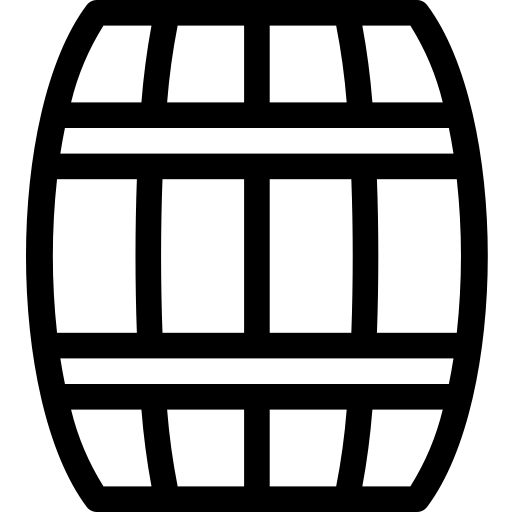
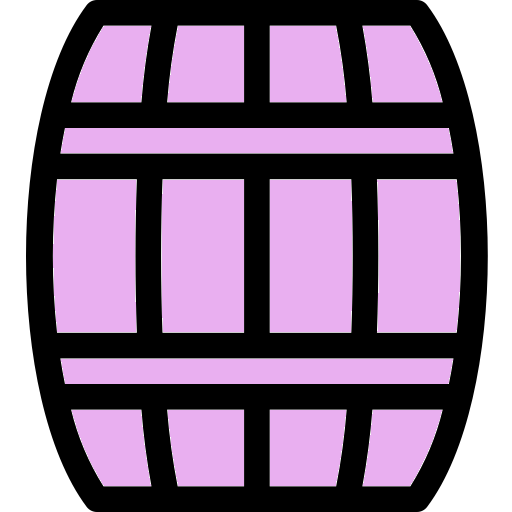
Fix startup texture loading and improve barrel contrast

diff --git a/src/addon.cpp b/src/addon.cpp
@@ -44,6 +44,7 @@ namespace
     AddonDefinition_t AddonDef{};
     Texture_t* BarrelTexture = nullptr;
     Texture_t* BarrelFilledTexture = nullptr;
+    float TextureRetryTimer = 0.0f;
 
     constexpr const char* BarrelTextureId = "PactSupply.Barrel";
     constexpr const char* BarrelFilledTextureId = "PactSupply.BarrelFilled";
@@ -133,7 +134,7 @@ namespace
 
         file << ButtonPosition.x << ' ' << ButtonPosition.y << '\n';
     }
-    void LoadTextures()
+    void LoadTextures(bool logFailures = true)
     {
         if (addon::Api == nullptr || addon::Api->Textures_GetOrCreateFromResource == nullptr)
         {
@@ -151,12 +152,12 @@ namespace
         BarrelTexture = addon::Api->Textures_GetOrCreateFromResource(BarrelTextureId, IDB_BARREL, module);
         BarrelFilledTexture = addon::Api->Textures_GetOrCreateFromResource(BarrelFilledTextureId, IDB_BARREL_HOVER, module);
 
-        if (BarrelTexture == nullptr)
+        if (logFailures && BarrelTexture == nullptr)
         {
             addon::Log(LOGL_WARNING, "failed to load embedded barrel texture");
         }
 
-        if (BarrelFilledTexture == nullptr)
+        if (logFailures && BarrelFilledTexture == nullptr)
         {
             addon::Log(LOGL_WARNING, "failed to load embedded barrel hover texture");
         }
@@ -441,6 +442,10 @@ namespace
                     ImVec2(1.0f, 1.0f),
                     IM_COL32_WHITE);
             }
+            else
+            {
+                DrawBarrel(ImGui::GetWindowDrawList(), screenPosition, barrelSize, IM_COL32(202, 77, 213, 255));
+            }
             const bool altDown = ImGui::GetIO().KeyAlt;
 
             if (hovered && ImGui::IsMouseClicked(ImGuiMouseButton_Left))
@@ -501,6 +506,16 @@ namespace
             }
         }
 
+        if (BarrelTexture == nullptr || BarrelFilledTexture == nullptr)
+        {
+            TextureRetryTimer -= deltaTime;
+            if (TextureRetryTimer <= 0.0f)
+            {
+                LoadTextures(false);
+                TextureRetryTimer = 0.5f;
+            }
+        }
+
         RenderBarrelButton();
         RenderNotification();
     }
@@ -557,7 +572,7 @@ extern "C" __declspec(dllexport) AddonDefinition_t* GetAddonDef()
     AddonDef.Signature = AddonSignature;
     AddonDef.APIVersion = NEXUS_API_VERSION;
     AddonDef.Name = addon::Name;
-    AddonDef.Version = AddonVersion_t{1, 2, 1, 0};
+    AddonDef.Version = AddonVersion_t{1, 2, 2, 0};
     AddonDef.Author = "Nahar.5349";
     AddonDef.Description = "Track the Pact Supply waypoints";
     AddonDef.Load = AddonLoad;